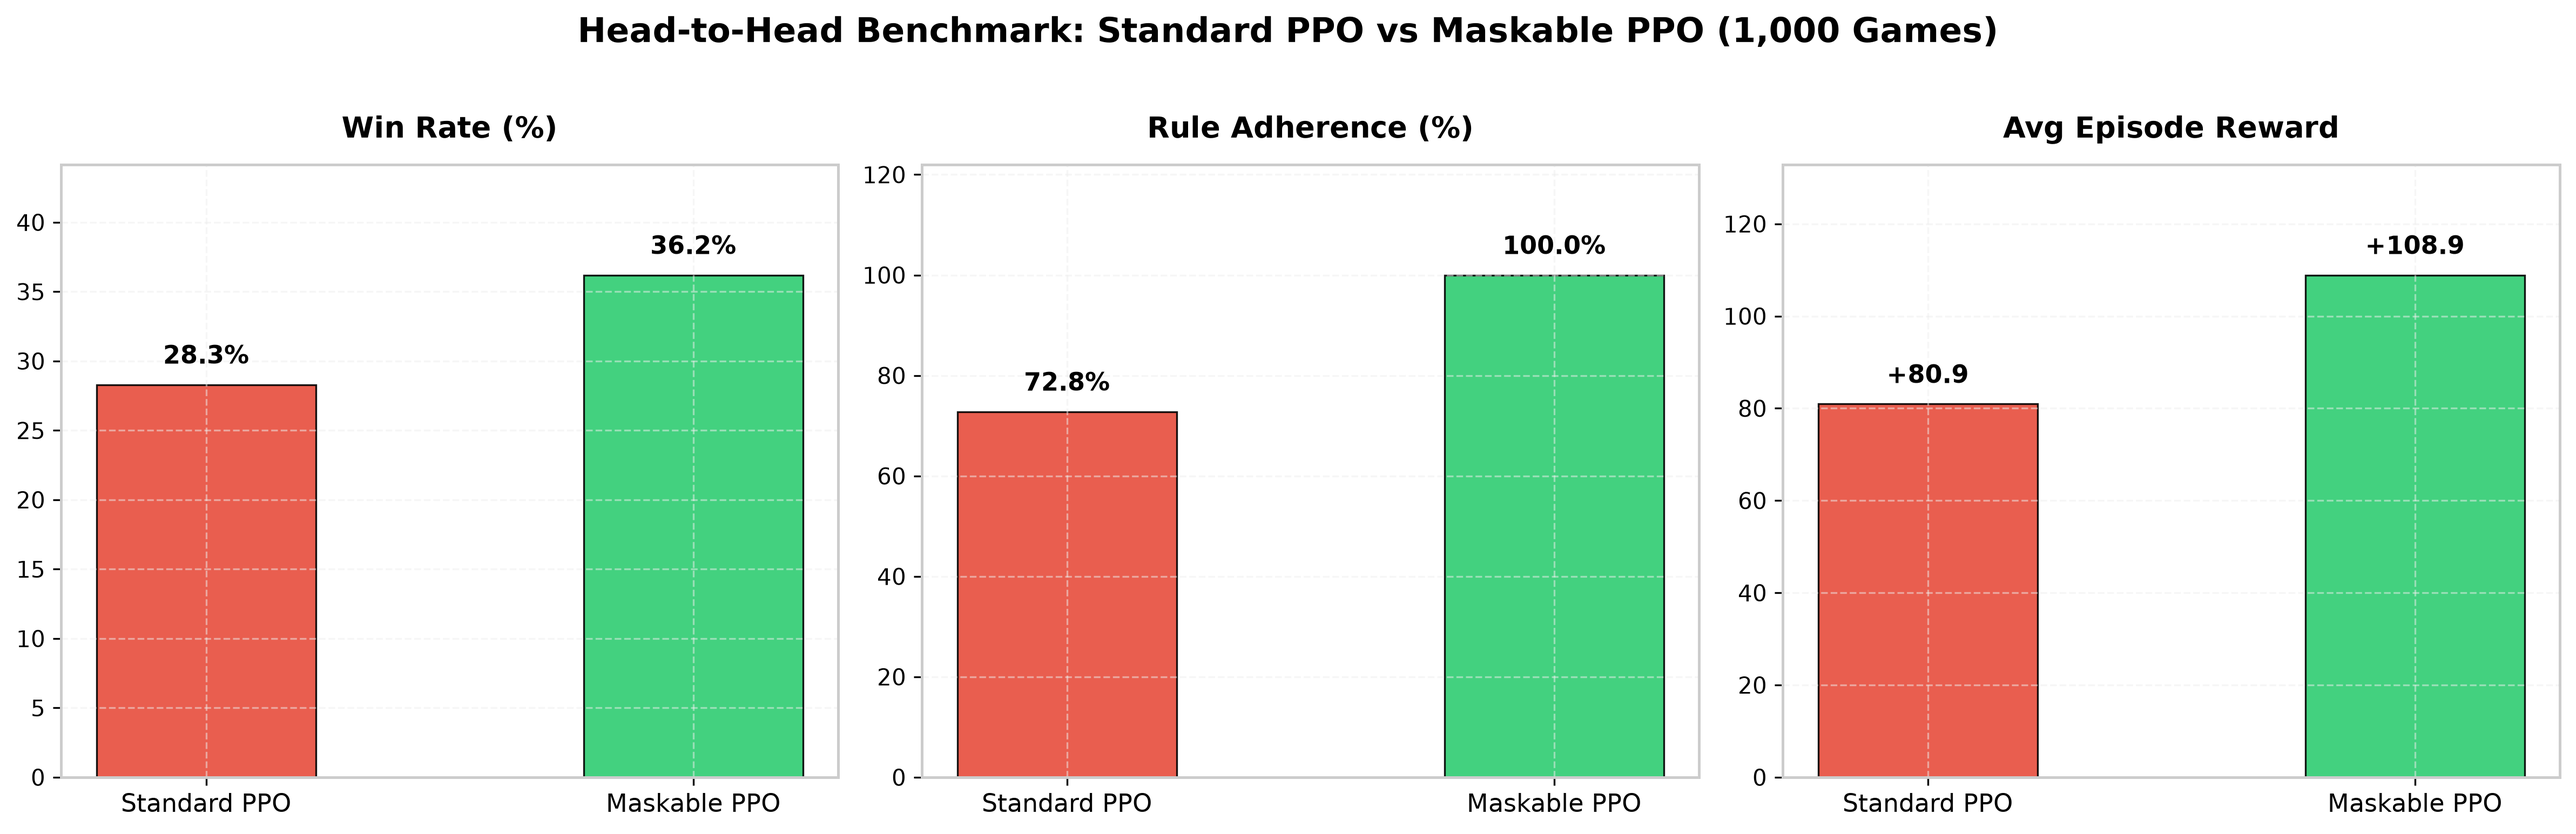
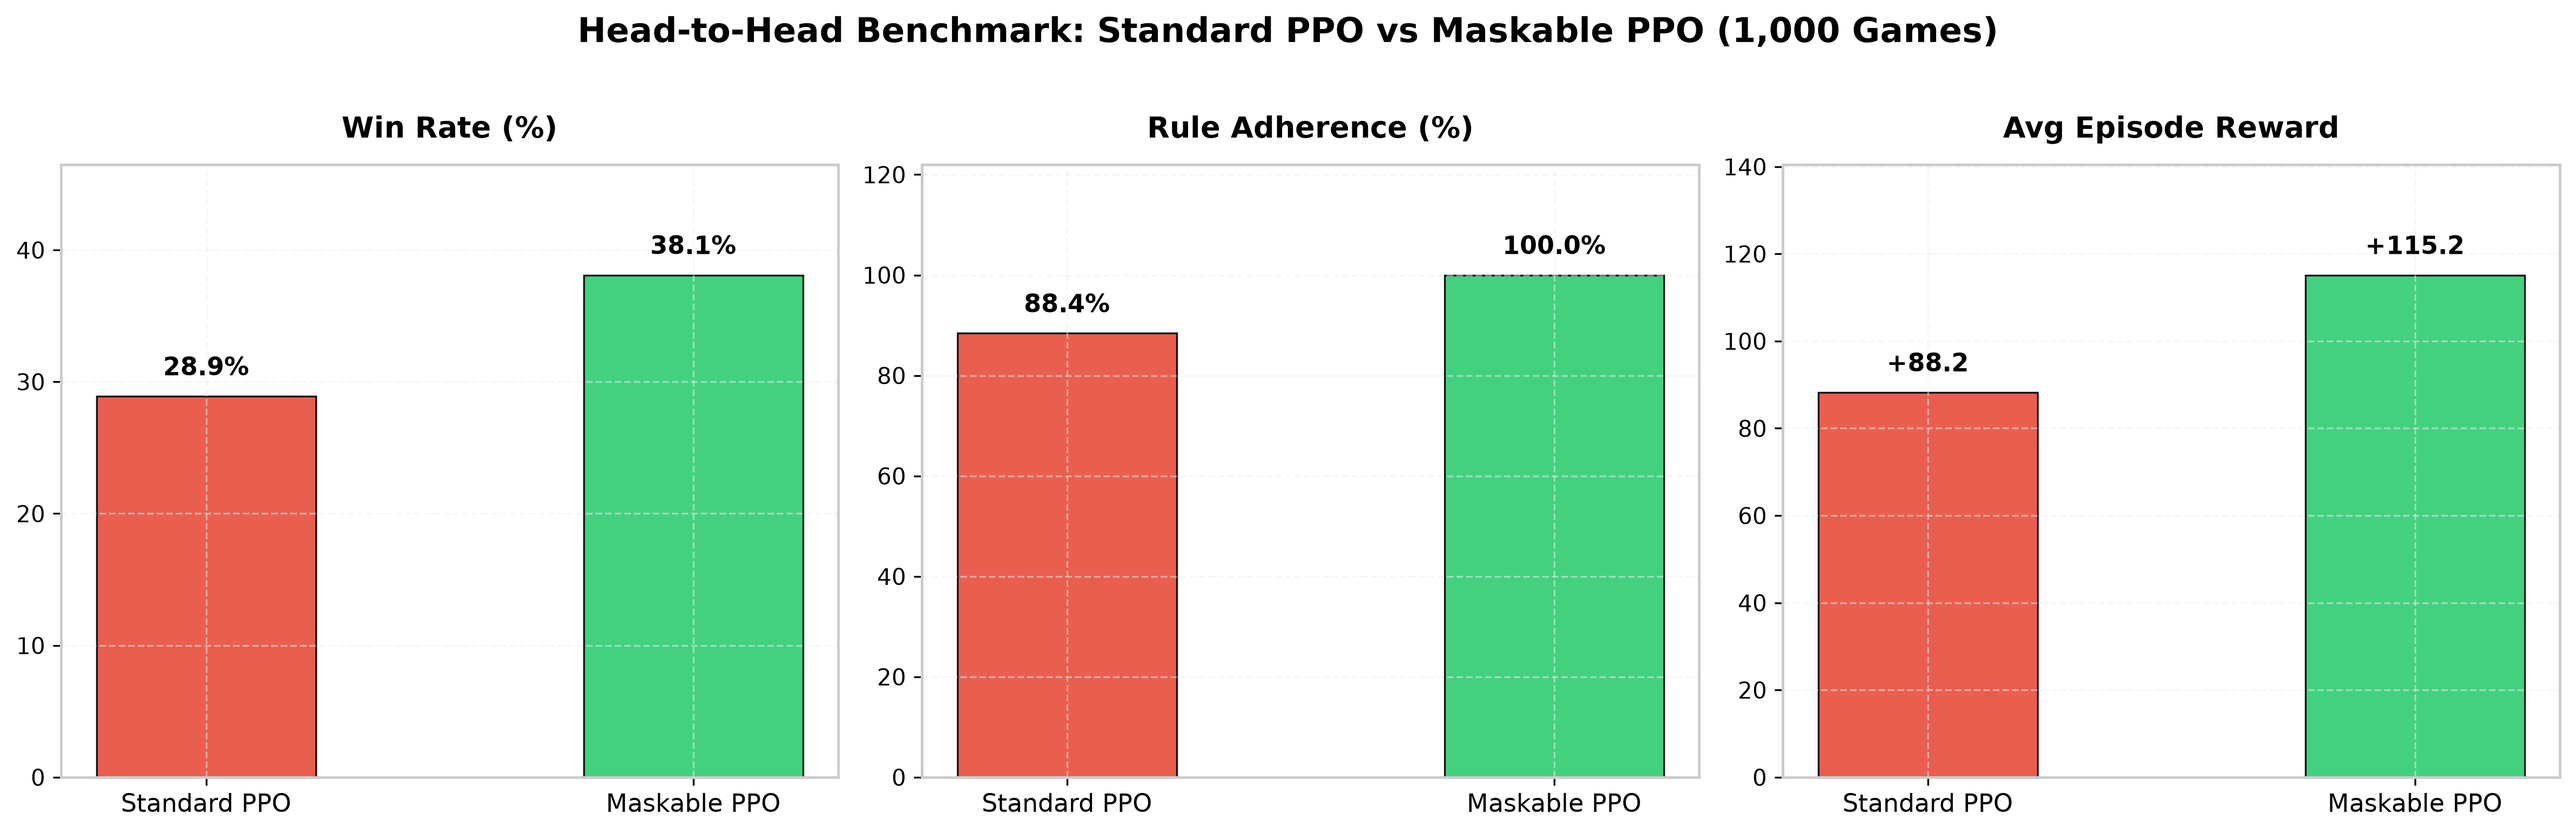
Fix hardcoded metrics in plot generator and update generated images

diff --git a/evaluation/kori_khel/generate_benchmark_plots.py b/evaluation/kori_khel/generate_benchmark_plots.py
@@ -23,9 +23,9 @@ plt.rcParams.update({
 def generate_head_to_head_chart():
     """Generates 3-metric comparison chart over 1,000 games."""
     metrics = {
-        'Win Rate (%)': {'Standard PPO': 28.30, 'Maskable PPO': 36.20, 'Unit': '%'},
-        'Rule Adherence (%)': {'Standard PPO': 72.80, 'Maskable PPO': 100.00, 'Unit': '%'},
-        'Avg Episode Reward': {'Standard PPO': 80.93, 'Maskable PPO': 108.90, 'Unit': 'pts'}
+        'Win Rate (%)': {'Standard PPO': 28.90, 'Maskable PPO': 38.10, 'Unit': '%'},
+        'Rule Adherence (%)': {'Standard PPO': 88.40, 'Maskable PPO': 100.00, 'Unit': '%'},
+        'Avg Episode Reward': {'Standard PPO': 88.24, 'Maskable PPO': 115.15, 'Unit': 'pts'}
     }
 
     fig, axes = plt.subplots(1, 3, figsize=(16, 5))
